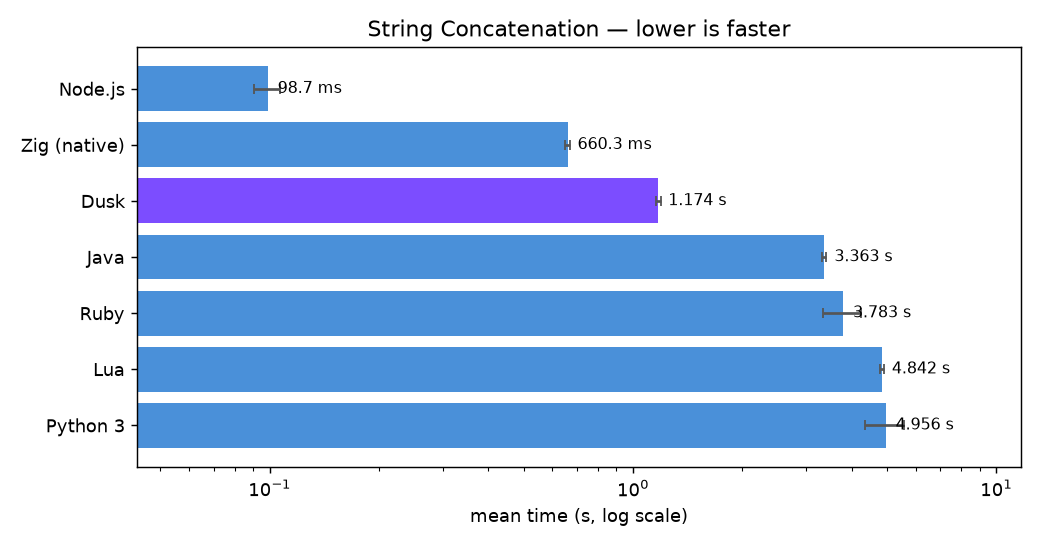
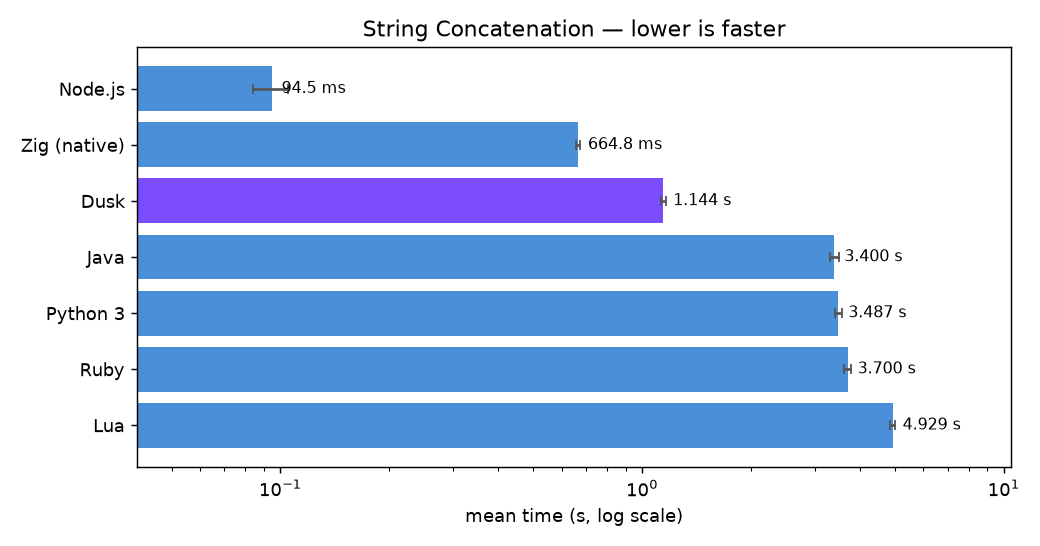
benchmark: regenerate report for v0.14

diff --git a/benchmarks/benchmark.md b/benchmarks/benchmark.md
@@ -22,13 +22,13 @@ python3 run_benchmarks.py
 | Cores / Threads | 6 cores / 12 threads |
 | CPU max | 4.65 GHz |
 | Memory | 31.2 GiB total |
-| Date | 2026-11-06 02:24 UTC |
+| Date | 2026-11-08 06:55 UTC |
 
 ## Language toolchains
 
 | Language | Version / mode |
 | --- | --- |
-| **Dusk** | **0.13.0 (git 26157d0) — built with Zig 0.16.0, ReleaseFast** |
+| **Dusk** | **0.14.0 (git 827ef83) — built with Zig 0.16.0, ReleaseFast** |
 | Zig (native) | 0.16.0 — native baseline, build-exe -OReleaseFast |
 | Java | openjdk version 25.0.4.1 2026-08-18 — precompiled with javac, JVM startup included |
 | Node.js | v22.23.1 |
@@ -55,13 +55,13 @@ Expected output: `9227465`
 
 | Language | Mean | Std dev | Min | Max | Relative | Peak mem |
 | --- | --- | --- | --- | --- | --- | --- |
-| Zig (native) | 21.6 ms | 4.1 ms | 19.1 ms | 34.9 ms | 1.00× | 0.7 MiB |
-| Java | 49.7 ms | 8.4 ms | 42.9 ms | 71.5 ms | 2.30× | 38.3 MiB |
-| Node.js | 173.0 ms | 17.1 ms | 149.5 ms | 196.1 ms | 8.00× | 58.7 MiB |
-| **Dusk** | **498.7 ms** | **10.9 ms** | **490.2 ms** | **515.5 ms** | **23.05×** | **1.3 MiB** |
-| Lua | 518.6 ms | 4.2 ms | 514.5 ms | 524.7 ms | 23.97× | 2.8 MiB |
-| Ruby | 751.1 ms | 26.8 ms | 713.7 ms | 780.7 ms | 34.72× | 14.5 MiB |
-| Python 3 | 959.5 ms | 16.9 ms | 943.2 ms | 984.3 ms | 44.36× | 9.2 MiB |
+| Zig (native) | 20.2 ms | 504.7 µs | 19.3 ms | 22.4 ms | 1.00× | 0.7 MiB |
+| Java | 48.1 ms | 3.6 ms | 44.6 ms | 69.2 ms | 2.38× | 38.2 MiB |
+| Node.js | 161.4 ms | 7.5 ms | 149.4 ms | 180.8 ms | 7.98× | 58.7 MiB |
+| **Dusk** | **434.7 ms** | **7.5 ms** | **426.4 ms** | **443.9 ms** | **21.50×** | **1.7 MiB** |
+| Lua | 503.3 ms | 12.0 ms | 489.0 ms | 516.9 ms | 24.88× | 2.9 MiB |
+| Ruby | 702.9 ms | 23.8 ms | 678.8 ms | 742.4 ms | 34.75× | 14.4 MiB |
+| Python 3 | 940.9 ms | 34.5 ms | 903.9 ms | 990.9 ms | 46.52× | 9.2 MiB |
 
 ![Recursive Fibonacci](assets/fib.png)
 
@@ -75,13 +75,13 @@ Expected output: `50049`
 
 | Language | Mean | Std dev | Min | Max | Relative | Peak mem |
 | --- | --- | --- | --- | --- | --- | --- |
-| Zig (native) | 8.7 ms | 5.3 ms | 5.8 ms | 44.8 ms | 1.00× | 3.8 MiB |
-| Java | 41.8 ms | 13.3 ms | 31.8 ms | 76.9 ms | 4.81× | 43.8 MiB |
-| Node.js | 186.6 ms | 13.8 ms | 160.1 ms | 202.0 ms | 21.47× | 85.2 MiB |
-| Lua | 309.9 ms | 12.4 ms | 293.1 ms | 331.8 ms | 35.65× | 21.5 MiB |
-| **Dusk** | **834.6 ms** | **34.9 ms** | **795.8 ms** | **869.2 ms** | **95.99×** | **16.9 MiB** |
-| Ruby | 1.701 s | 38.5 ms | 1.665 s | 1.755 s | 195.59× | 30.7 MiB |
-| Python 3 | 1.938 s | 36.8 ms | 1.893 s | 1.992 s | 222.93× | 34.9 MiB |
+| Zig (native) | 6.8 ms | 595.7 µs | 5.8 ms | 9.0 ms | 1.00× | 3.8 MiB |
+| Java | 36.7 ms | 2.8 ms | 31.9 ms | 53.0 ms | 5.40× | 43.8 MiB |
+| Node.js | 168.4 ms | 8.8 ms | 160.1 ms | 196.8 ms | 24.73× | 85.2 MiB |
+| Lua | 272.8 ms | 7.1 ms | 259.6 ms | 282.5 ms | 40.06× | 21.8 MiB |
+| **Dusk** | **889.1 ms** | **74.8 ms** | **799.6 ms** | **969.2 ms** | **130.55×** | **17.1 MiB** |
+| Ruby | 1.544 s | 22.9 ms | 1.514 s | 1.578 s | 226.79× | 30.9 MiB |
+| Python 3 | 1.611 s | 19.2 ms | 1.580 s | 1.632 s | 236.57× | 34.7 MiB |
 
 ![Particle System](assets/particles.png)
 
@@ -95,13 +95,13 @@ Expected output: `9592`
 
 | Language | Mean | Std dev | Min | Max | Relative | Peak mem |
 | --- | --- | --- | --- | --- | --- | --- |
-| Zig (native) | 877.2 µs | 632.7 µs | 597.1 µs | 8.4 ms | 1.00× | 0.8 MiB |
-| Lua | 6.6 ms | 3.3 ms | 4.8 ms | 27.4 ms | 7.49× | 4.8 MiB |
-| **Dusk** | **12.2 ms** | **4.3 ms** | **10.0 ms** | **35.4 ms** | **13.91×** | **3.0 MiB** |
-| Java | 20.4 ms | 9.6 ms | 16.1 ms | 55.5 ms | 23.25× | 38.3 MiB |
-| Python 3 | 26.8 ms | 9.4 ms | 21.7 ms | 62.6 ms | 30.55× | 10.1 MiB |
-| Ruby | 55.1 ms | 15.8 ms | 44.7 ms | 90.1 ms | 62.79× | 15.2 MiB |
-| Node.js | 93.4 ms | 18.8 ms | 74.6 ms | 130.9 ms | 106.42× | 59.7 MiB |
+| Zig (native) | 774.0 µs | 163.7 µs | 609.7 µs | 2.0 ms | 1.00× | 0.8 MiB |
+| Lua | 5.7 ms | 520.3 µs | 4.9 ms | 8.5 ms | 7.40× | 4.7 MiB |
+| **Dusk** | **10.9 ms** | **587.3 µs** | **10.0 ms** | **12.8 ms** | **14.14×** | **3.2 MiB** |
+| Java | 18.3 ms | 1.1 ms | 16.6 ms | 24.5 ms | 23.69× | 38.1 MiB |
+| Python 3 | 25.4 ms | 2.0 ms | 22.9 ms | 36.6 ms | 32.88× | 10.0 MiB |
+| Ruby | 51.1 ms | 3.6 ms | 47.5 ms | 68.3 ms | 66.04× | 15.2 MiB |
+| Node.js | 82.5 ms | 4.5 ms | 76.0 ms | 101.1 ms | 106.56× | 59.5 MiB |
 
 ![Sieve of Eratosthenes](assets/primes.png)
 
@@ -115,13 +115,13 @@ Expected output: `5001`
 
 | Language | Mean | Std dev | Min | Max | Relative | Peak mem |
 | --- | --- | --- | --- | --- | --- | --- |
-| Zig (native) | 783.4 µs | 608.2 µs | 547.0 µs | 8.8 ms | 1.00× | 0.7 MiB |
-| Lua | 3.4 ms | 1.6 ms | 2.7 ms | 16.7 ms | 4.39× | 3.0 MiB |
-| **Dusk** | **6.1 ms** | **2.1 ms** | **5.1 ms** | **20.7 ms** | **7.73×** | **1.6 MiB** |
-| Python 3 | 18.5 ms | 7.5 ms | 14.2 ms | 50.7 ms | 23.66× | 9.7 MiB |
-| Java | 21.7 ms | 10.4 ms | 16.1 ms | 59.0 ms | 27.64× | 38.1 MiB |
-| Ruby | 52.5 ms | 15.7 ms | 41.1 ms | 89.4 ms | 67.00× | 14.6 MiB |
-| Node.js | 96.4 ms | 19.7 ms | 77.1 ms | 125.8 ms | 123.10× | 58.9 MiB |
+| Zig (native) | 727.0 µs | 206.1 µs | 556.7 µs | 2.0 ms | 1.00× | 0.7 MiB |
+| Lua | 3.2 ms | 386.5 µs | 2.8 ms | 5.5 ms | 4.43× | 3.1 MiB |
+| **Dusk** | **5.8 ms** | **585.0 µs** | **5.2 ms** | **10.5 ms** | **8.03×** | **1.7 MiB** |
+| Python 3 | 16.0 ms | 761.7 µs | 14.6 ms | 19.2 ms | 22.02× | 9.7 MiB |
+| Java | 19.0 ms | 1.7 ms | 16.6 ms | 27.4 ms | 26.12× | 38.1 MiB |
+| Ruby | 46.5 ms | 1.3 ms | 43.9 ms | 50.2 ms | 64.01× | 14.7 MiB |
+| Node.js | 83.7 ms | 3.6 ms | 76.0 ms | 89.5 ms | 115.12× | 58.8 MiB |
 
 ![QuickSort](assets/quicksort.png)
 
@@ -135,13 +135,13 @@ Expected output: `141554306`
 
 | Language | Mean | Std dev | Min | Max | Relative | Peak mem |
 | --- | --- | --- | --- | --- | --- | --- |
-| Zig (native) | 319.7 ms | 3.0 ms | 315.1 ms | 325.0 ms | 1.00× | 0.7 MiB |
-| Java | 354.8 ms | 13.0 ms | 342.7 ms | 379.1 ms | 1.11× | 38.7 MiB |
-| Node.js | 419.2 ms | 20.0 ms | 401.9 ms | 447.3 ms | 1.31× | 60.7 MiB |
-| Lua | 4.465 s | 121.6 ms | 4.274 s | 4.568 s | 13.97× | 3.0 MiB |
-| Ruby | 10.556 s | 371.7 ms | 10.227 s | 11.128 s | 33.01× | 14.6 MiB |
-| **Dusk** | **10.780 s** | **103.1 ms** | **10.618 s** | **10.880 s** | **33.71×** | **1.3 MiB** |
-| Python 3 | 43.590 s | 1.307 s | 41.793 s | 44.991 s | 136.33× | 9.4 MiB |
+| Zig (native) | 313.7 ms | 1.1 ms | 312.2 ms | 316.1 ms | 1.00× | 0.7 MiB |
+| Java | 338.2 ms | 945.0 µs | 336.7 ms | 339.5 ms | 1.08× | 38.6 MiB |
+| Node.js | 399.3 ms | 5.1 ms | 394.2 ms | 408.8 ms | 1.27× | 60.8 MiB |
+| Lua | 4.379 s | 75.0 ms | 4.250 s | 4.435 s | 13.96× | 3.0 MiB |
+| Ruby | 10.053 s | 131.6 ms | 9.923 s | 10.220 s | 32.05× | 14.5 MiB |
+| **Dusk** | **10.703 s** | **186.5 ms** | **10.508 s** | **10.983 s** | **34.12×** | **1.7 MiB** |
+| Python 3 | 39.843 s | 2.531 s | 37.275 s | 42.692 s | 127.01× | 9.4 MiB |
 
 ![Mandelbrot](assets/mandelbrot.png)
 
@@ -155,13 +155,13 @@ Expected output: `73037032`
 
 | Language | Mean | Std dev | Min | Max | Relative | Peak mem |
 | --- | --- | --- | --- | --- | --- | --- |
-| Zig (native) | 93.8 ms | 2.8 ms | 89.0 ms | 102.3 ms | 1.00× | 0.7 MiB |
-| **Dusk** | **283.6 ms** | **6.5 ms** | **275.9 ms** | **298.8 ms** | **3.02×** | **3.1 MiB** |
-| Java | 342.4 ms | 7.6 ms | 331.8 ms | 353.2 ms | 3.65× | 286.5 MiB |
-| Node.js | 475.3 ms | 31.7 ms | 441.3 ms | 521.0 ms | 5.07× | 90.8 MiB |
-| Python 3 | 582.9 ms | 16.4 ms | 566.1 ms | 606.8 ms | 6.22× | 9.3 MiB |
-| Ruby | 943.6 ms | 23.7 ms | 928.6 ms | 985.5 ms | 10.06× | 14.6 MiB |
-| Lua | 1.143 s | 11.5 ms | 1.129 s | 1.158 s | 12.19× | 2.9 MiB |
+| Zig (native) | 88.7 ms | 2.2 ms | 85.5 ms | 92.0 ms | 1.00× | 0.7 MiB |
+| **Dusk** | **268.2 ms** | **2.6 ms** | **262.7 ms** | **271.3 ms** | **3.02×** | **3.3 MiB** |
+| Java | 314.7 ms | 6.4 ms | 307.2 ms | 325.3 ms | 3.55× | 286.4 MiB |
+| Node.js | 455.5 ms | 7.1 ms | 448.6 ms | 466.7 ms | 5.13× | 91.0 MiB |
+| Python 3 | 585.0 ms | 14.3 ms | 572.0 ms | 608.1 ms | 6.60× | 9.0 MiB |
+| Ruby | 904.7 ms | 4.9 ms | 899.9 ms | 912.9 ms | 10.20× | 14.6 MiB |
+| Lua | 1.147 s | 18.8 ms | 1.122 s | 1.171 s | 12.93× | 2.7 MiB |
 
 ![Strings](assets/strings.png)
 
@@ -175,13 +175,13 @@ Expected output: `400000`
 
 | Language | Mean | Std dev | Min | Max | Relative | Peak mem |
 | --- | --- | --- | --- | --- | --- | --- |
-| Node.js | 98.7 ms | 8.0 ms | 88.7 ms | 119.6 ms | 0.15× | 70.6 MiB |
-| Zig (native) | 660.3 ms | 8.8 ms | 649.5 ms | 669.1 ms | 1.00× | 1.3 MiB |
-| **Dusk** | **1.174 s** | **19.7 ms** | **1.149 s** | **1.193 s** | **1.78×** | **3.5 MiB** |
-| Java | 3.363 s | 39.9 ms | 3.300 s | 3.405 s | 5.09× | 592.9 MiB |
-| Ruby | 3.783 s | 445.5 ms | 3.420 s | 4.343 s | 5.73× | 78.8 MiB |
-| Lua | 4.842 s | 63.9 ms | 4.774 s | 4.946 s | 7.33× | 4.9 MiB |
-| Python 3 | 4.956 s | 601.0 ms | 3.914 s | 5.403 s | 7.51× | 10.1 MiB |
+| Node.js | 94.5 ms | 10.5 ms | 88.6 ms | 138.1 ms | 0.14× | 70.9 MiB |
+| Zig (native) | 664.8 ms | 10.1 ms | 654.9 ms | 680.6 ms | 1.00× | 1.2 MiB |
+| **Dusk** | **1.144 s** | **17.5 ms** | **1.122 s** | **1.171 s** | **1.72×** | **3.6 MiB** |
+| Java | 3.400 s | 95.0 ms | 3.296 s | 3.528 s | 5.11× | 568.9 MiB |
+| Python 3 | 3.487 s | 78.7 ms | 3.413 s | 3.582 s | 5.25× | 10.2 MiB |
+| Ruby | 3.700 s | 87.7 ms | 3.551 s | 3.759 s | 5.57× | 78.9 MiB |
+| Lua | 4.929 s | 82.0 ms | 4.848 s | 5.066 s | 7.41× | 4.9 MiB |
 
 ![String Concatenation](assets/concat.png)
 
@@ -195,13 +195,13 @@ Expected output: `125250000000`
 
 | Language | Mean | Std dev | Min | Max | Relative | Peak mem |
 | --- | --- | --- | --- | --- | --- | --- |
-| Zig (native) | 52.6 ms | 950.4 µs | 51.3 ms | 56.8 ms | 1.00× | 49.4 MiB |
-| Java | 230.6 ms | 2.8 ms | 226.4 ms | 236.2 ms | 4.39× | 259.8 MiB |
-| Node.js | 334.7 ms | 10.6 ms | 325.7 ms | 358.3 ms | 6.37× | 209.0 MiB |
-| Python 3 | 354.2 ms | 6.2 ms | 345.4 ms | 364.5 ms | 6.74× | 88.6 MiB |
-| **Dusk** | **411.7 ms** | **3.7 ms** | **407.8 ms** | **416.8 ms** | **7.83×** | **232.4 MiB** |
-| Lua | 497.0 ms | 17.4 ms | 480.2 ms | 524.2 ms | 9.45× | 82.2 MiB |
-| Ruby | 556.9 ms | 11.1 ms | 548.8 ms | 574.3 ms | 10.59× | 124.6 MiB |
+| Zig (native) | 53.3 ms | 837.5 µs | 51.9 ms | 56.7 ms | 1.00× | 49.7 MiB |
+| Java | 238.1 ms | 5.6 ms | 226.4 ms | 249.2 ms | 4.47× | 259.6 MiB |
+| Node.js | 339.0 ms | 12.1 ms | 329.7 ms | 364.1 ms | 6.36× | 205.9 MiB |
+| Python 3 | 360.8 ms | 10.0 ms | 348.9 ms | 381.8 ms | 6.77× | 88.5 MiB |
+| **Dusk** | **413.0 ms** | **4.4 ms** | **409.0 ms** | **422.3 ms** | **7.75×** | **232.8 MiB** |
+| Lua | 547.8 ms | 25.0 ms | 516.4 ms | 579.6 ms | 10.28× | 82.1 MiB |
+| Ruby | 564.2 ms | 9.3 ms | 550.6 ms | 574.3 ms | 10.59× | 124.7 MiB |
 
 ![CSV Parsing](assets/parse.png)
 
